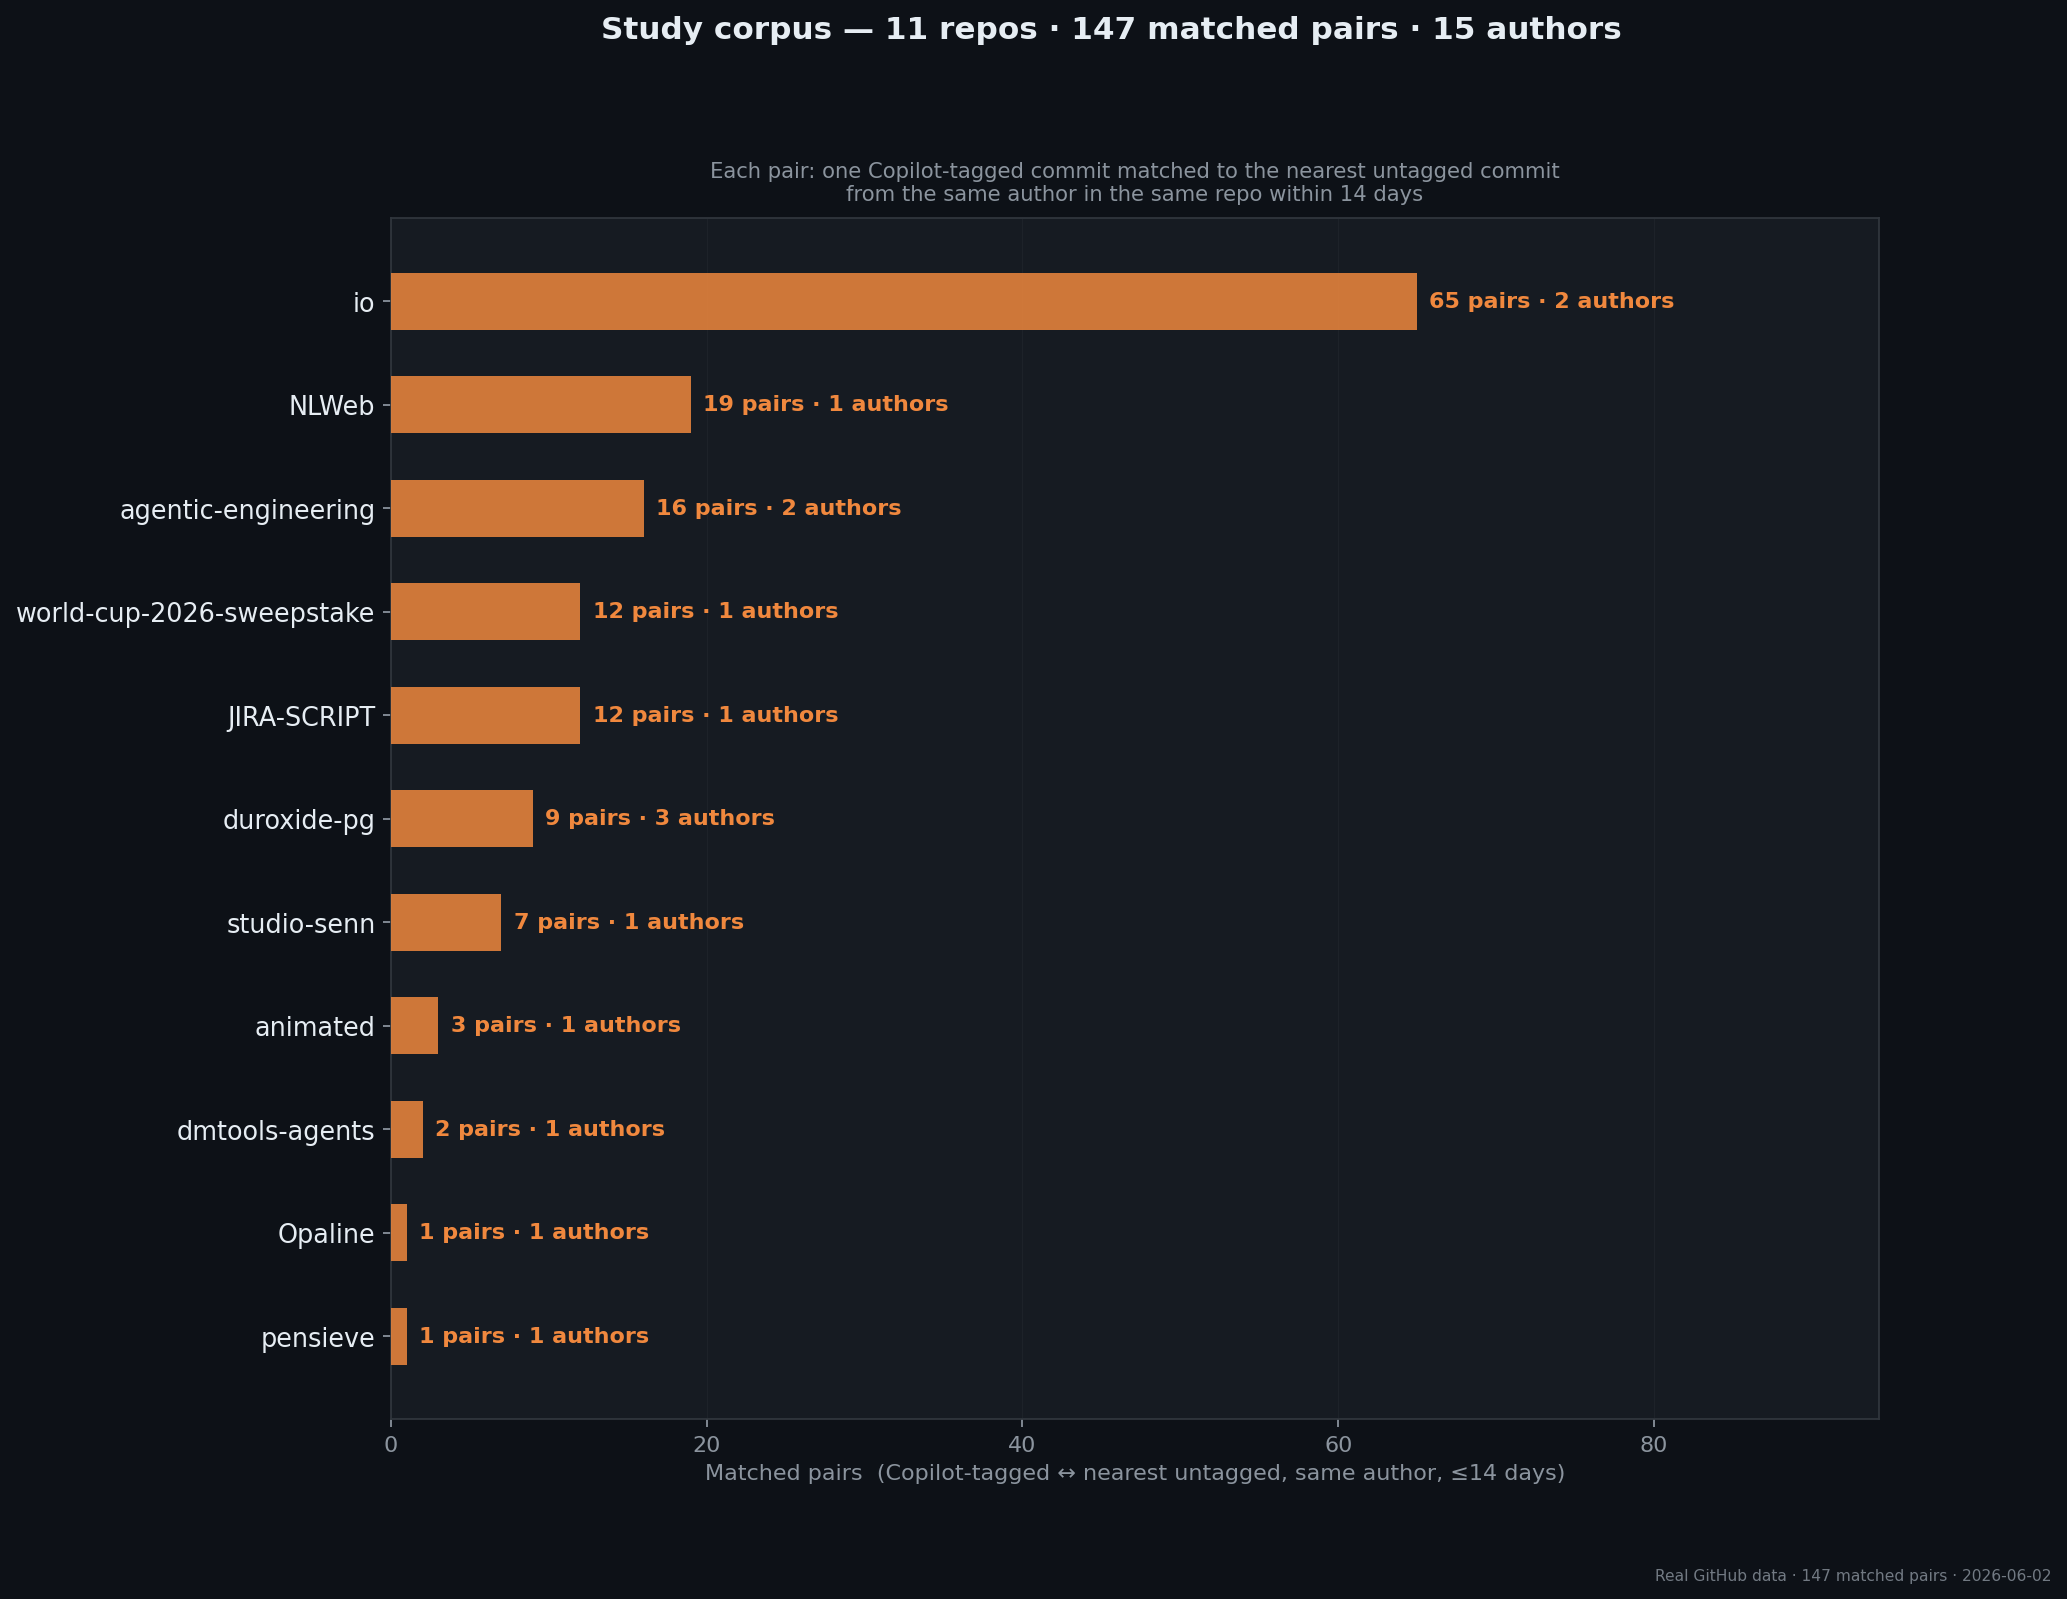
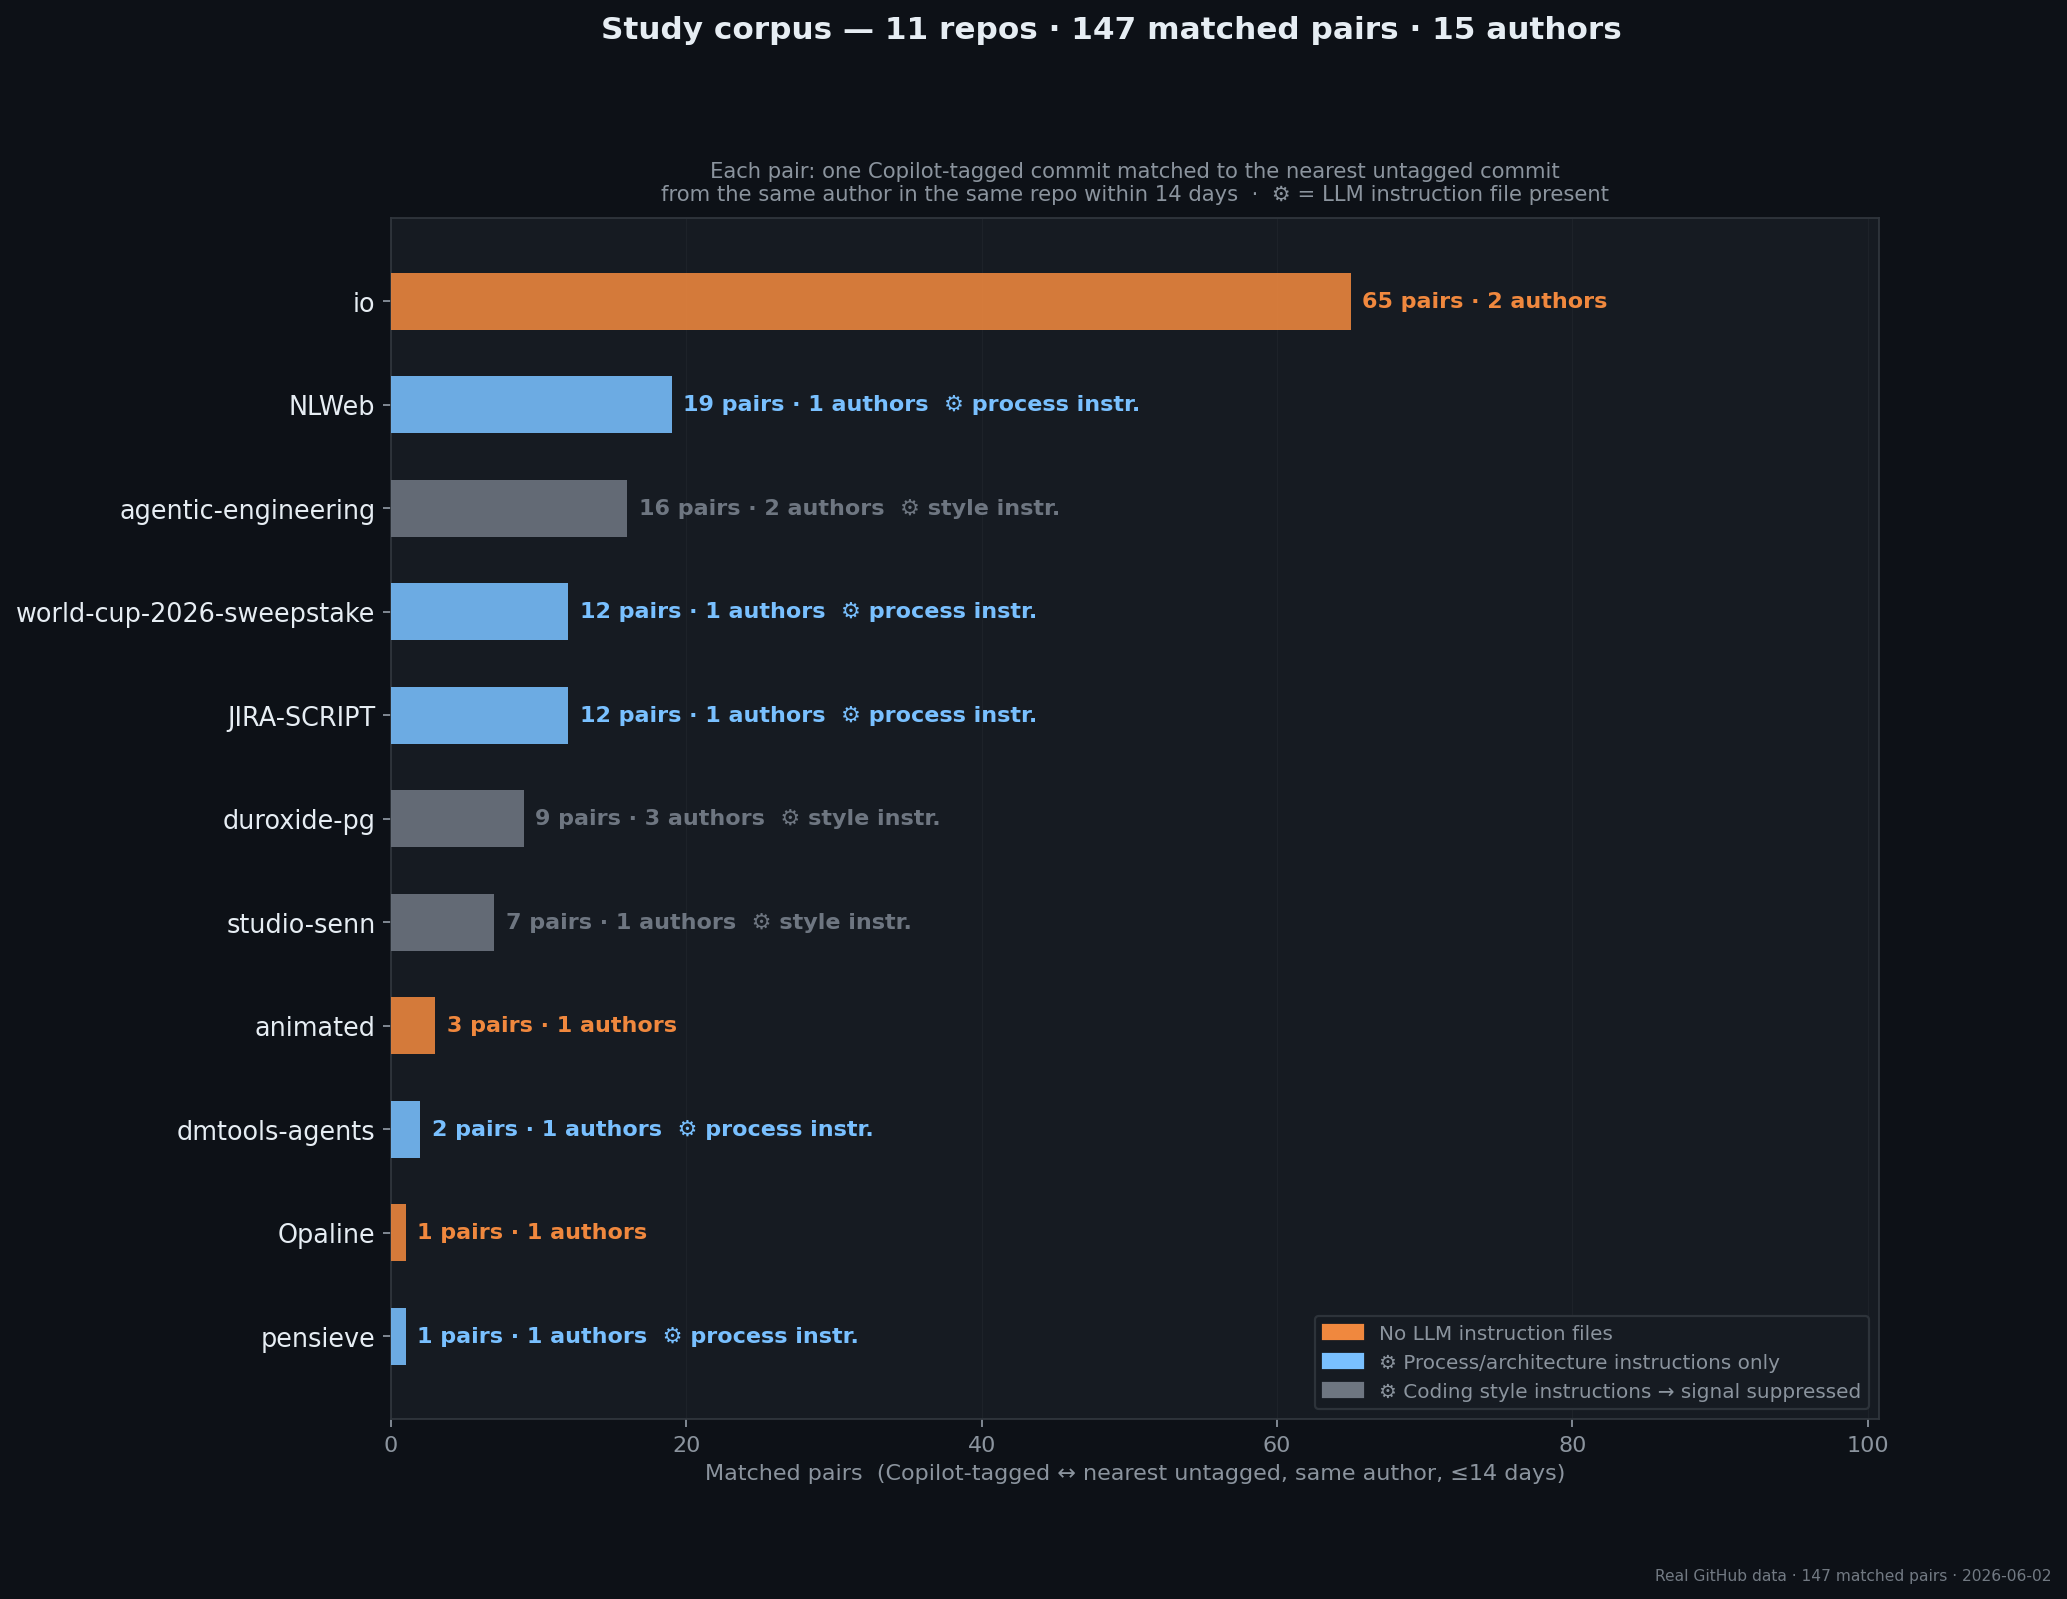
annotate figures with LLM instruction-file presence
fig1_corpus and fig3_heatmap now color-code repos by instruction type:
orange = no instructions (signal possible), light blue = process-only
instructions, grey = coding style instructions (signal suppressed by
design). fig3_heatmap adds ⚙ markers and matching label colors.

diff --git a/generate_figures.py b/generate_figures.py
@@ -47,6 +47,28 @@ CMAP_DIV = LinearSegmentedColormap.from_list(
 REPORTS_DIR = Path("reports")
 IMG_DIR     = Path("docs/img")
 
+# Repos with LLM coding-style instruction files (checked June 2026).
+# Key = full "owner/repo" scope.  Value = brief description.
+# Presence predicts null result: repos with detailed style guides → 0/15 sig.
+LLM_INSTRUCTIONS: dict[str, str] = {
+    "FrancescoCiulla/NLWeb":               "CLAUDE.md (architecture map, no style rules)",
+    "odlhassan/JIRA-SCRIPT":               "CLAUDE.md 22KB + AGENTS.md (workspace memory)",
+    "jhkidd/world-cup-2026-sweepstake":    ".github/copilot-instructions.md (process workflow only)",
+    "microsoft/duroxide-pg":               ".github/copilot-instructions.md 8KB (full style guide)",
+    "SamMRoberts/agentic-engineering":     "AGENTS.md 13KB (detailed coding conventions)",
+    "sennap/studio-senn":                  ".github/copilot-instructions.md 3.8KB (style guide)",
+    "IstiN/dmtools-agents":                ".github/copilot-instructions.md + AGENTS.md",
+    "andy-herman/pensieve":                "AGENTS.md 10KB",
+}
+
+# Repos where instructions explicitly govern coding STYLE (not just project setup/process).
+# These are the ones that predictably produce null results.
+LLM_STYLE_INSTRUCTIONS: set[str] = {
+    "microsoft/duroxide-pg",
+    "SamMRoberts/agentic-engineering",
+    "sennap/studio-senn",
+}
+
 SIGNAL_LABELS = {
     # Level A — process
     "files_changed":          "Files changed",
@@ -133,31 +155,60 @@ def fig1_corpus(results: list[dict], synthetic: bool) -> None:
     if not rows:
         return
 
-    names  = [r["scope"].split("/")[-1] for r in rows]
-    pairs  = [r["n_pairs"] for r in rows]
+    names   = [r["scope"].split("/")[-1] for r in rows]
+    scopes  = [r["scope"] for r in rows]
+    pairs   = [r["n_pairs"] for r in rows]
     authors = [r["n_authors"] for r in rows]
+
+    # Bar color: grey for repos with style instructions (null result expected),
+    # orange for repos without (signal possible).
+    C_INSTR_STYLE = "#6e7681"   # grey — style-instructed, null
+    C_INSTR_PROC  = "#79c0ff"   # light blue — process/arch instructions only
+    C_NO_INSTR    = C_TAG       # orange — no instructions
+
+    def _bar_color(scope: str) -> str:
+        if scope in LLM_STYLE_INSTRUCTIONS:
+            return C_INSTR_STYLE
+        if scope in LLM_INSTRUCTIONS:
+            return C_INSTR_PROC
+        return C_NO_INSTR
+
+    bar_colors = [_bar_color(s) for s in scopes]
 
     fig, ax = plt.subplots(figsize=(12, max(4, len(rows) * 0.75 + 1.5)), facecolor=BG)
     _ax_dark(ax)
 
     y = np.arange(len(rows))
-    bars = ax.barh(y, pairs, color=C_TAG, alpha=0.85, height=0.55,
-                   label="Matched pairs", zorder=3)
+    bars = ax.barh(y, pairs, color=bar_colors, alpha=0.88, height=0.55, zorder=3)
 
-    for i, (bar, n_p, n_a) in enumerate(zip(bars, pairs, authors)):
+    for i, (bar, n_p, n_a, scope) in enumerate(zip(bars, pairs, authors, scopes)):
+        instr_tag = ""
+        if scope in LLM_STYLE_INSTRUCTIONS:
+            instr_tag = "  ⚙ style instr."
+        elif scope in LLM_INSTRUCTIONS:
+            instr_tag = "  ⚙ process instr."
         ax.text(n_p + max(pairs) * 0.012, i,
-                f"{n_p} pairs · {n_a} authors",
-                va="center", ha="left", color=C_TAG,
-                fontsize=10, fontweight="bold")
+                f"{n_p} pairs · {n_a} authors{instr_tag}",
+                va="center", ha="left",
+                color=bar_colors[i], fontsize=10, fontweight="bold")
 
     ax.set_yticks(y)
     ax.set_yticklabels(names, fontsize=11.5, color=TEXT_HI)
     ax.invert_yaxis()
     ax.set_xlabel("Matched pairs  (Copilot-tagged ↔ nearest untagged, same author, ≤14 days)",
                   color=TEXT_LO, fontsize=10)
-    ax.set_xlim(0, max(pairs) * 1.45)
+    ax.set_xlim(0, max(pairs) * 1.55)
     ax.grid(axis="x", color=GRID, lw=0.5, alpha=0.7, zorder=0)
     ax.set_axisbelow(True)
+
+    legend_items = [
+        mpatches.Patch(color=C_NO_INSTR,    label="No LLM instruction files"),
+        mpatches.Patch(color=C_INSTR_PROC,  label="⚙ Process/architecture instructions only"),
+        mpatches.Patch(color=C_INSTR_STYLE, label="⚙ Coding style instructions → signal suppressed"),
+    ]
+    ax.legend(handles=legend_items, loc="lower right",
+              facecolor=SURFACE, edgecolor=BORDER,
+              labelcolor=TEXT_LO, fontsize=9, framealpha=0.9)
 
     total_pairs  = sum(pairs)
     total_authors = sum(authors)
@@ -168,7 +219,7 @@ def fig1_corpus(results: list[dict], synthetic: bool) -> None:
     )
     ax.set_title(
         "Each pair: one Copilot-tagged commit matched to the nearest untagged commit\n"
-        "from the same author in the same repo within 14 days",
+        "from the same author in the same repo within 14 days  ·  ⚙ = LLM instruction file present",
         color=TEXT_LO, fontsize=9.5, pad=8,
     )
     _watermark(fig, total_pairs, synthetic)
@@ -287,6 +338,19 @@ def fig3_heatmap(results: list[dict], synthetic: bool) -> None:
     signal_order = list(SIGNAL_LABELS.keys())
     repo_names = [r["scope"].split("/")[-1] for r in repo_results]
 
+    scopes = [r["scope"] for r in repo_results]
+
+    # Annotate repo names with ⚙ if they have LLM instruction files
+    def _annotated_repo_name(scope: str) -> str:
+        short = scope.split("/")[-1]
+        if scope in LLM_STYLE_INSTRUCTIONS:
+            return f"{short}  ⚙ style"
+        if scope in LLM_INSTRUCTIONS:
+            return f"{short}  ⚙ instr."
+        return short
+
+    repo_names = [_annotated_repo_name(s) for s in scopes]
+
     n_repos = len(repo_results)
     n_sigs  = len(signal_order)
     matrix_r = np.zeros((n_repos, n_sigs))
@@ -332,7 +396,19 @@ def fig3_heatmap(results: list[dict], synthetic: bool) -> None:
     ax.xaxis.tick_top()
     ax.xaxis.set_label_position("top")
     ax.set_yticks(range(n_repos))
-    ax.set_yticklabels(repo_names, fontsize=10.5, color=TEXT_HI)
+
+    # Color repo labels: grey for style-instructed, light blue for process-instructed
+    ytick_colors = []
+    for scope in scopes:
+        if scope in LLM_STYLE_INSTRUCTIONS:
+            ytick_colors.append("#6e7681")
+        elif scope in LLM_INSTRUCTIONS:
+            ytick_colors.append("#79c0ff")
+        else:
+            ytick_colors.append(TEXT_HI)
+    ax.set_yticklabels(repo_names, fontsize=10.5)
+    for lbl, color in zip(ax.get_yticklabels(), ytick_colors):
+        lbl.set_color(color)
     ax.tick_params(length=0)
 
     # Colorbar
@@ -349,13 +425,24 @@ def fig3_heatmap(results: list[dict], synthetic: bool) -> None:
              "★ p < 0.05   ★★ p < 0.01   ★★★ p < 0.001   · no meaningful effect",
              color=TEXT_LO, fontsize=8, ha="left", va="bottom", alpha=0.8)
 
+    # Simpler legend as text patches below chart
+    legend_items = [
+        mpatches.Patch(color=TEXT_HI,    label="No LLM instruction files"),
+        mpatches.Patch(color="#79c0ff",  label="⚙ Process/arch instructions"),
+        mpatches.Patch(color="#6e7681",  label="⚙ Coding style instructions → signal suppressed"),
+    ]
+    ax.legend(handles=legend_items, loc="lower right",
+              facecolor=SURFACE, edgecolor=BORDER,
+              labelcolor=TEXT_LO, fontsize=8.5, framealpha=0.9,
+              title="Row label color", title_fontsize=8)
+
     fig.suptitle(
         "Signal × repo consistency — rank-biserial effect size",
         color=TEXT_HI, fontsize=13, fontweight="bold",
     )
     ax.set_title(
         "Consistent orange columns = signals reliably higher in Copilot commits  "
-        "·  Mixed cells = repo-specific noise",
+        "·  Mixed cells = repo-specific noise  ·  Grey rows = style-instructed repos",
         color=TEXT_LO, fontsize=9.5, pad=40,
     )
     _watermark(fig, sum(r["n_pairs"] for r in repo_results), synthetic)
